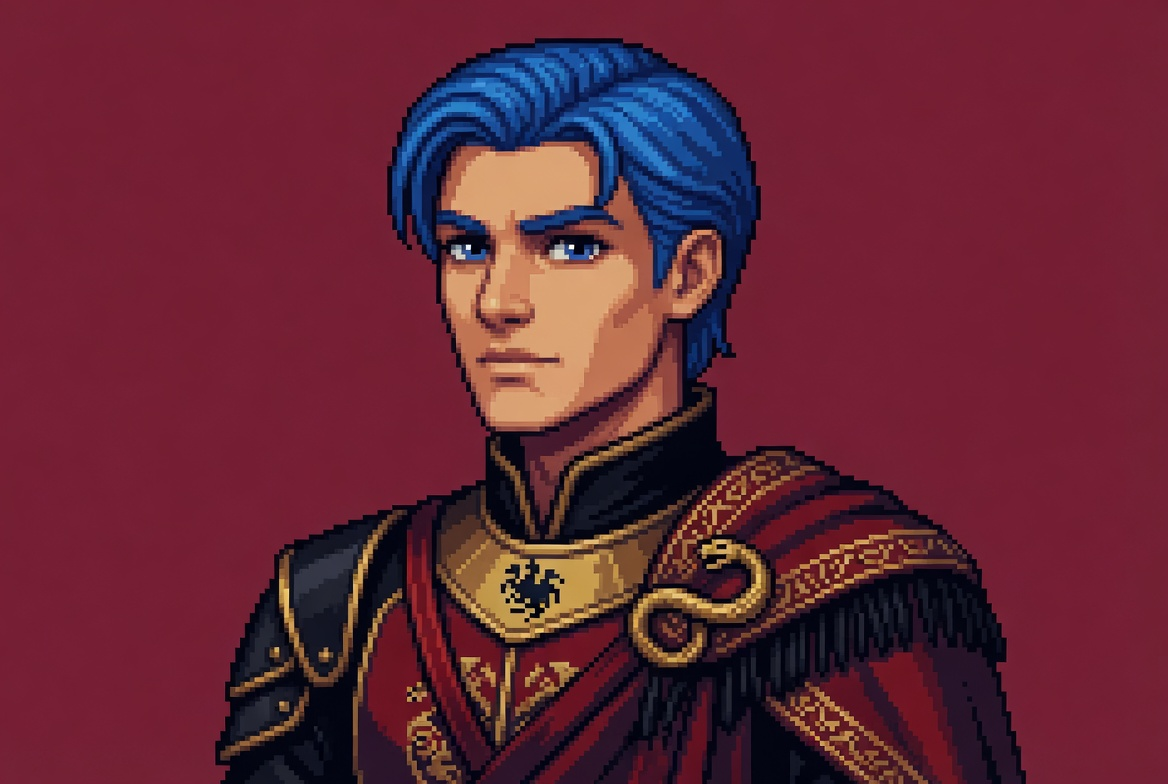
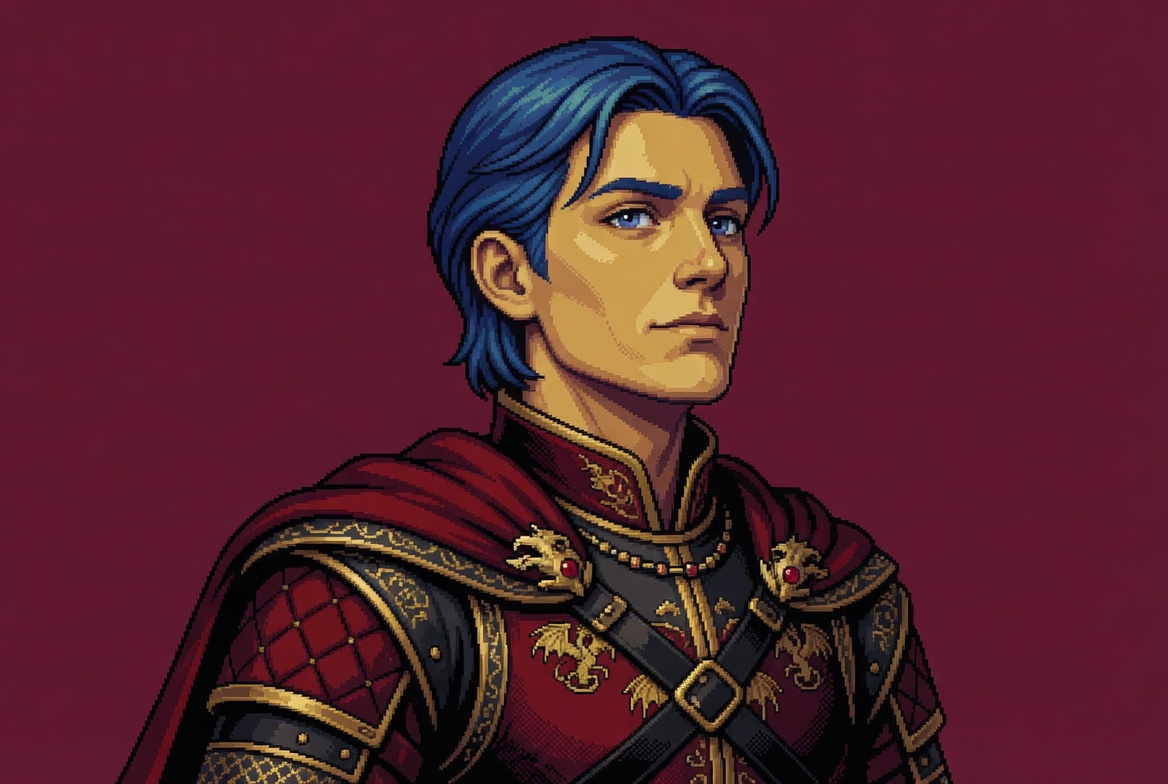
TKW: responsive header/parchment tweaks and character image refresh
- `SiteHeader.module.scss` reworks `.inner` into a `70px 1fr` grid with fixed 70px height, drops centered max-width padding
- `.titleLink` and `.title` switch to grid layout, drop redundant `position: relative`
- `ParchmentLayout.module.scss` switches `.page` to `max-width: 1280px` + `width: 100%`, removes dead commented rules and duplicate `.page` block
- `ParchmentLayout` adds bottom padding and a `bp.$xs` mobile padding override
- `app/characters/[slug]/page.module.scss` lets `.portrait` go full-bleed below `bp.$md`
- swap oversized `aegor-rivers.png` for `aegor-rivers.jpg`
- refresh `aegon-son-of-rhaegar.jpg`, `aegon-the-uncrowned.jpg`, `aenys-i-targaryen.jpg`
- add `aenys-i-targaryen2.jpg` and `aenys-i-targaryen3.jpg` alternates
- move two `aegon-uncrowned*.jpg` files to `public/sigil-backups/`

diff --git a/components/SiteHeader.module.scss b/components/SiteHeader.module.scss
@@ -32,26 +32,25 @@
 }
 
 .inner {
-  max-width: 1200px;
-  margin: 0 auto;
-  padding: 1.1rem 1.25rem 1rem;
   display: grid;
-  grid-template-columns: 1fr;
+  max-width: 1200px;
+  margin: 0;
+  padding: 0;
+  height: 70px;
+  grid-template-columns: 70px 1fr;
   align-items: center;
-
-  @media (max-width: bp.$md) {
-    padding: 0.9rem 1.25rem 0.85rem;
-  }
 }
 
 .titleLink {
-  justify-self: center;
+  display: grid;
+  justify-self: left;
+  grid-template-columns: 1fr;
   text-decoration: none;
   color: inherit;
-  display: block;
-  align-items: center;
-  position: relative;
-  gap: 0;
+  display: grid;
+  margin: 0 0 0 70px;
+  width: calc(100vw - 70px);
+  justify-items: start;
 
   &:hover .title,
   &:focus-visible .title {
@@ -83,8 +82,10 @@
 }
 
 .title {
+  display: grid;
   margin: 0;
   padding: 0;
+  width: 100%;
   font-family: var(--font-heading);
   font-weight: 600;
   font-size: 2rem;
@@ -93,7 +94,6 @@
   text-align: center;
   line-height: 1;
   white-space: nowrap;
-  position: relative;
   text-shadow: 0 1px 2px rgba(0, 0, 0, 0.2);
 
   @media (max-width: bp.$md) {

diff --git a/components/ParchmentLayout.module.scss b/components/ParchmentLayout.module.scss
@@ -1,12 +1,19 @@
+@use "breakpoints" as bp;
+
 .page {
-  width: 1280px;
+  max-width: 1280px;
+  width: 100%;
   margin: 0 auto;
-  padding: 0 2rem;
+  padding: 0 0 10rem 0;
   position: relative;
   display: grid;
   grid-template-columns: 1fr;
   gap: 1rem;
   align-content: start;
+
+  @media (max-width: bp.$xs) {
+    padding: 0 1rem 4rem 1rem;
+  }
 }
 
 .page::before {
@@ -35,15 +42,4 @@
     110px 110px,
     130px 130px;
   z-index: 0;
-}
-
-// .page > * {
-//   position: relative;
-//   z-index: 1;
-// }
-
-.page {
-  display: grid;
-  grid-template-columns: 1fr;
-  gap: 1rem;
 }

diff --git a/app/characters/[slug]/page.module.scss b/app/characters/[slug]/page.module.scss
@@ -52,6 +52,11 @@
   display: flex;
   justify-content: center;
 
+  @media (max-width: bp.$md) {
+    width: 100vw;
+    margin: 0 calc(-50vw + 50%);
+  }
+
   img {
     width: 100%;
     height: auto;
